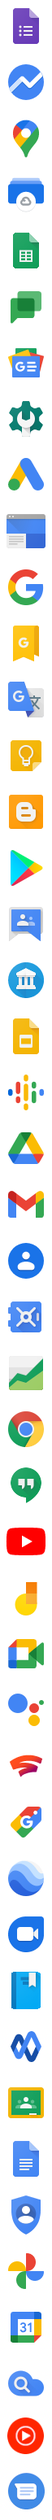
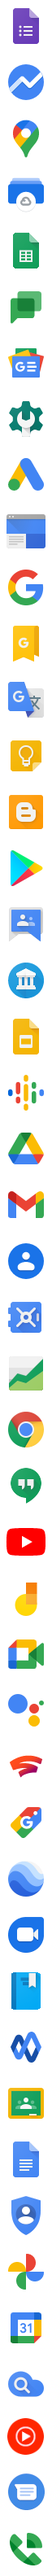
Added Google Voice

diff --git a/data/gapps-info.js b/data/gapps-info.js
@@ -71,11 +71,6 @@ var gapps_info = {
     "desc" : "Messages",
     "iconpos" : "0px -3030px"
   },
-  /*"gpay": {
-    "url" : "https://pay.google.com/",
-    "desc" : "Pay",
-    "iconpos" : "0px -414px"
-  },*/
   "gduo": {
     "url" : "https://duo.google.com/",
     "desc" : "Duo",
@@ -105,6 +100,11 @@ var gapps_info = {
     "url" : "https://music.youtube.com/",
     "desc" : "Music",
     "iconpos" : "0px -2962px"
+  },
+  "gvoice": {
+    "url" : "https://voice.google.com/",
+    "desc" : "Voice",
+    "iconpos" : "0px -3101px"
   },
   "gslides": {
     "url" : "https://slides.google.com/",

diff --git a/data/gapps.html b/data/gapps.html
@@ -33,7 +33,7 @@ body {
   height: 64px;
   width: 64px;
   background-image: url("gapps-icons.png");
-  background-size: 64px 3098px;
+  background-size: 64px 3166px;
 }
 #ga-grid .ga-ico-desc {
   display: block;

diff --git a/README.md b/README.md
@@ -27,6 +27,7 @@ Supported apps:
 * `gtrans`: Translate
 * `gkeep`: Keep
 * `gmusic`: Music
+* `gvoice`: Voice
 * `gslides`: Slides
 * `gclass`: Classroom
 * `ggroups`: Groups
